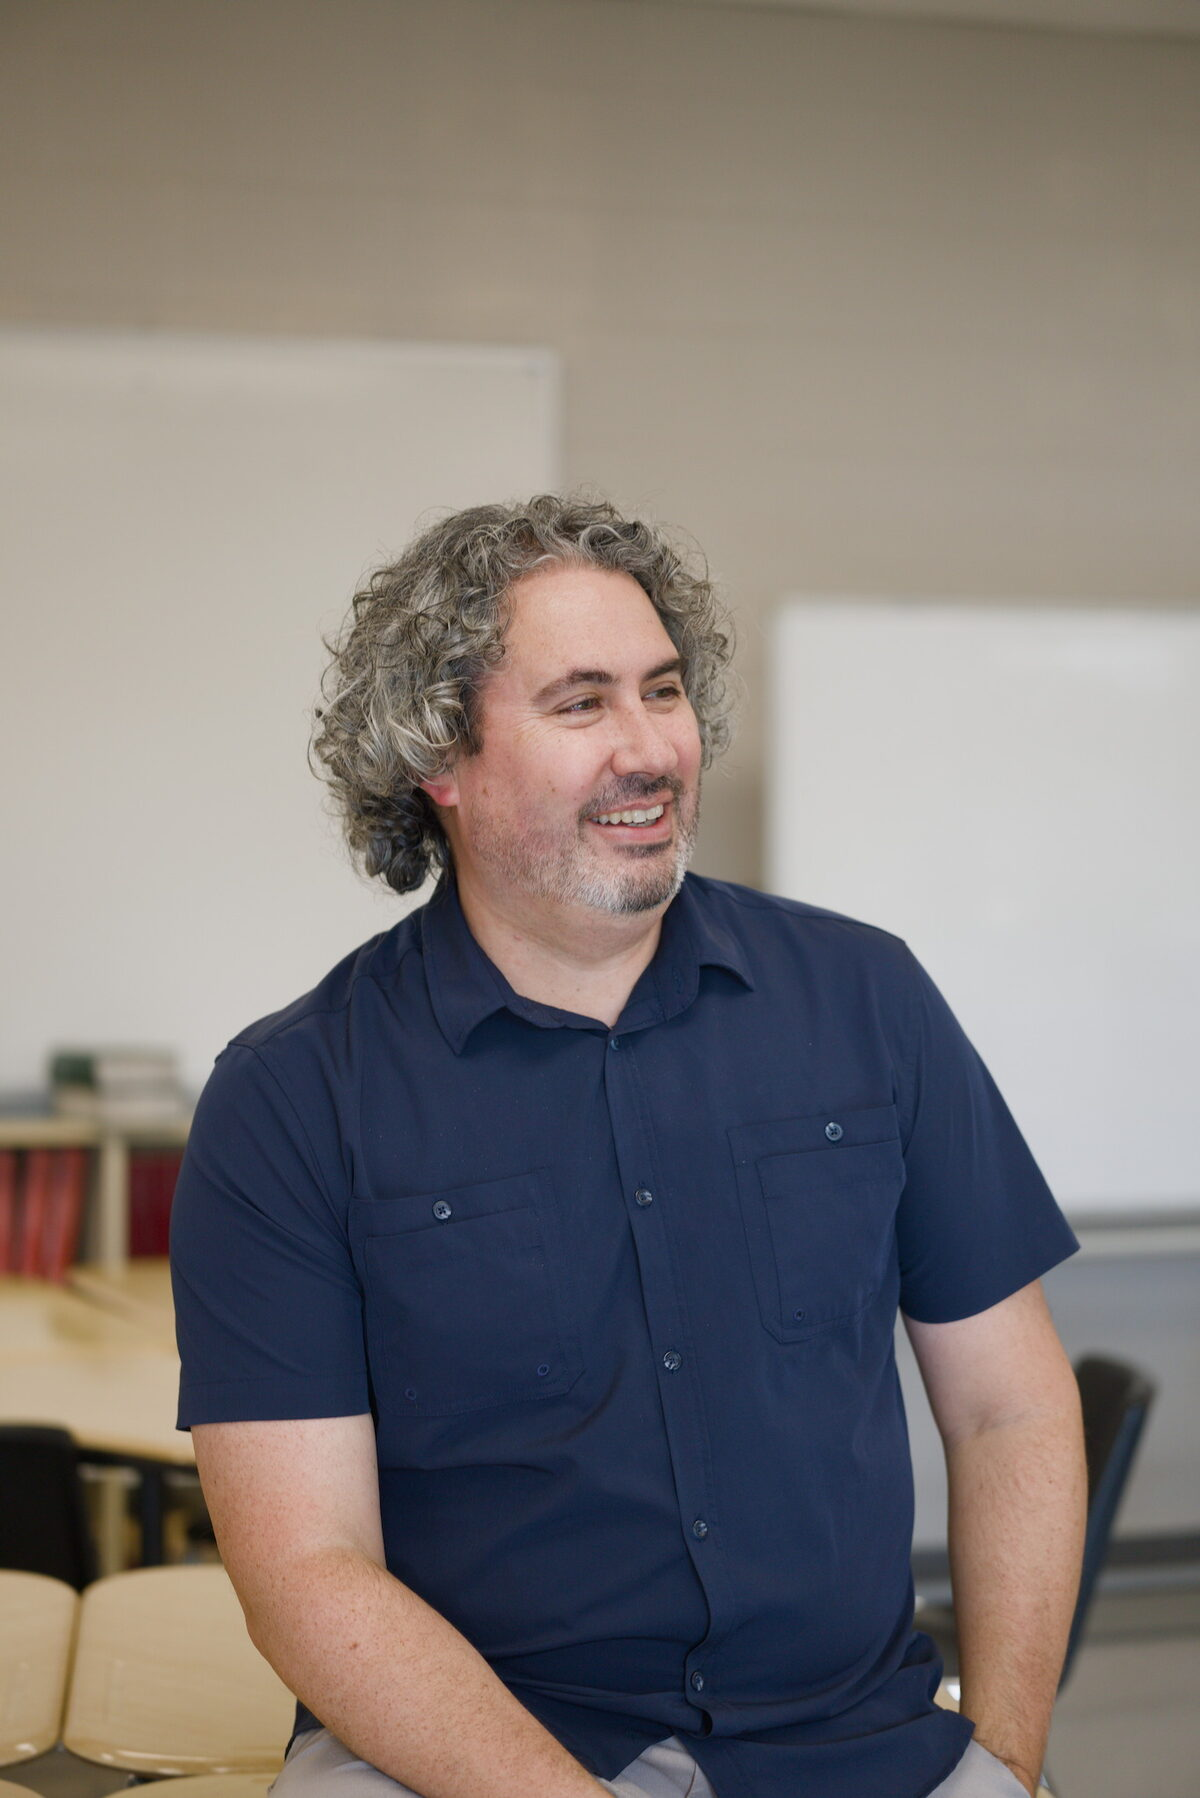
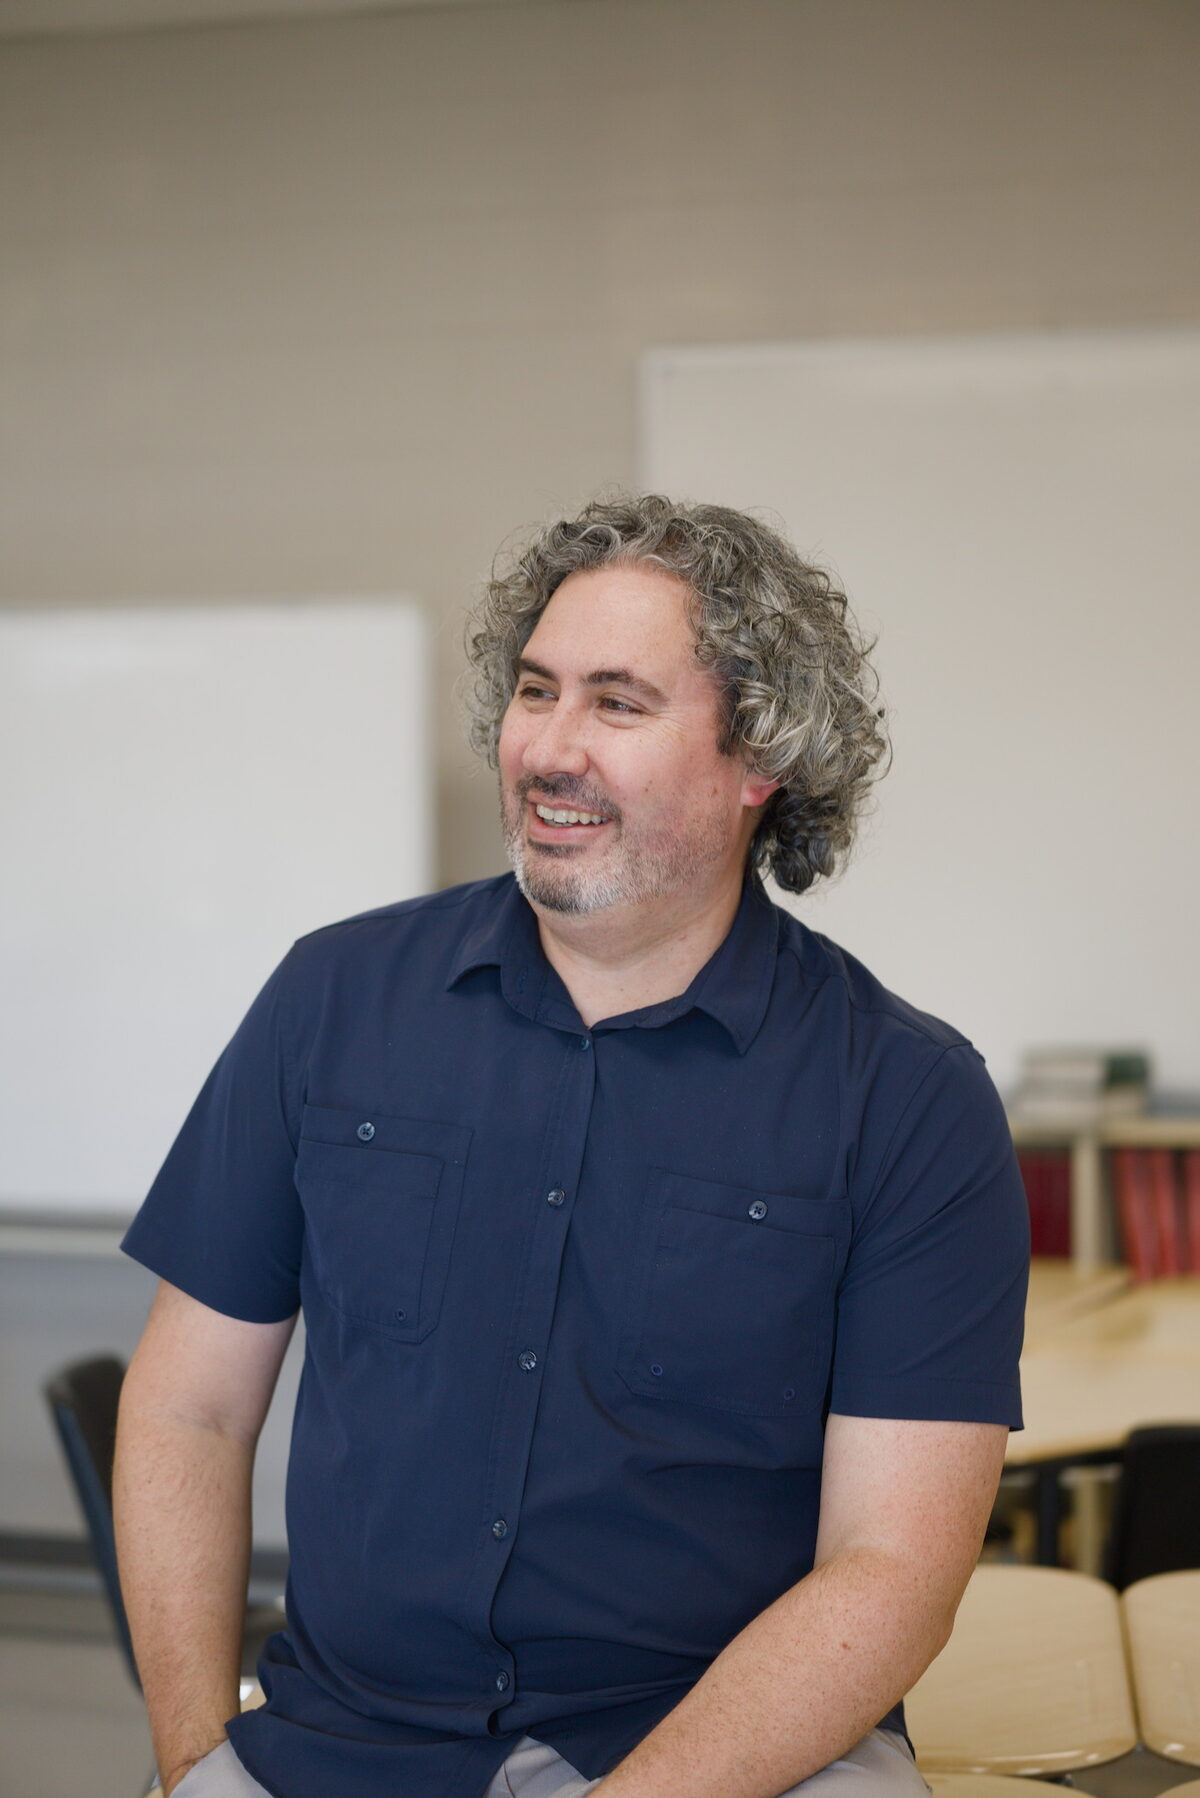
Name Alayna Erickson in her caption and mirror David Grills's photo

diff --git a/impact-report-2025-26/index.html b/impact-report-2025-26/index.html
@@ -513,7 +513,7 @@
     <section class="sheet feature-a" aria-label="Alayna Erickson" data-section-part="students">
       <figure class="photo">
         <img src="img/alayna-erickson-eptc-2025.jpg" alt="Alayna Erickson, in a pale pink blazer, seated at a table with her paper in front of her, listening during her session." width="1200" height="1798">
-        <figcaption>Giving a paper at the EPTC conference, George Brown Polytechnic, June 2025</figcaption>
+        <figcaption>Alayna Erickson giving a paper at the EPTC conference, George Brown Polytechnic, June 2025</figcaption>
       </figure>
       <div class="text">
         <div class="runhead"><span class="sc"><span class="r">ii.</span> Our Students</span><span>5</span></div>
